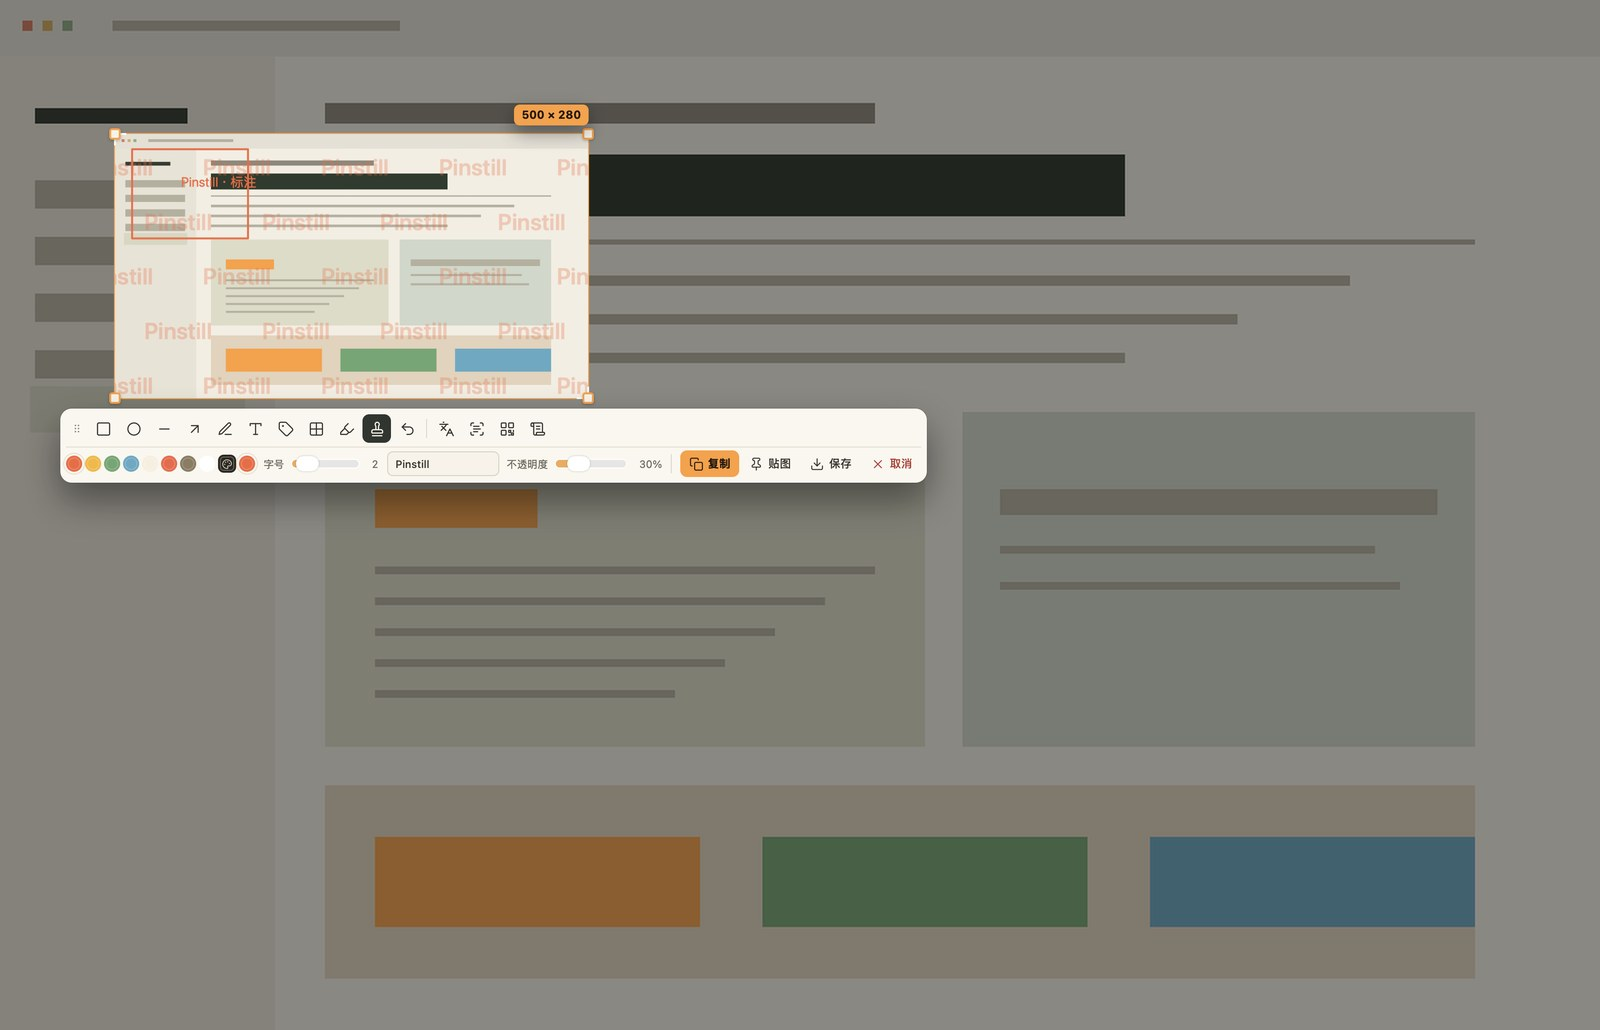
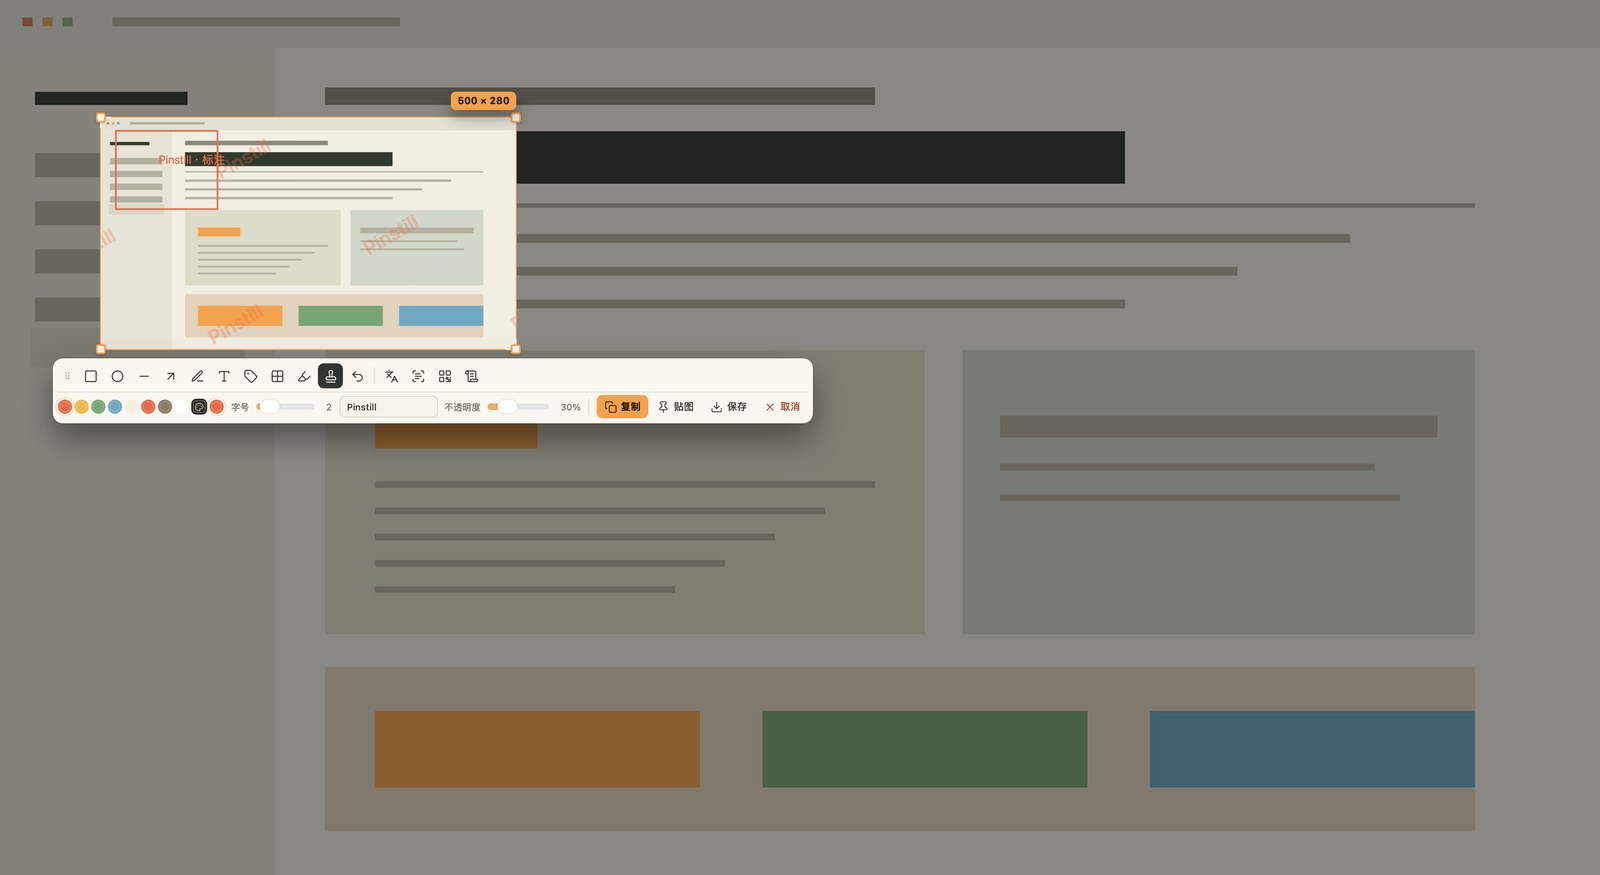
fix: draw the watermark diagonally and much sparser
Mainstream watermarks are diagonal and only mark the image, they do not
cover it. The tiled layer now rotates the text by -30 degrees and uses
generous spacing (stepX = text width + 6x font size, stepY = 7x font size
instead of 2.2x / 2.4x), so a typical capture shows a handful of marks
instead of a dense grid.

The watermark selftest still passes, the full e2e run passes, and the
README watermark screenshot was regenerated from the synthetic showcase.

Changed region(s): [[0.0312, 0.0926, 0.5938, 0.4937]]

diff --git a/frontend/src/annotate.ts b/frontend/src/annotate.ts
@@ -55,7 +55,10 @@ export interface WatermarkLayer {
   color: string;
 }
 
-/** Draws the repeated watermark text across the whole canvas. */
+/** Watermark marks are drawn diagonally, like the mainstream tools. */
+const WATERMARK_ANGLE = (-30 * Math.PI) / 180;
+
+/** Draws the sparse, diagonal tiled watermark across the whole canvas. */
 export function drawTiledWatermark(
   ctx: CanvasRenderingContext2D,
   layer: WatermarkLayer,
@@ -69,16 +72,21 @@ export function drawTiledWatermark(
   ctx.globalAlpha = Math.max(0.05, Math.min(1, layer.opacity / 100));
   ctx.fillStyle = layer.color;
   ctx.font = `600 ${fontSize}px ${DEFAULT_TEXT_FONT}`;
+  ctx.textAlign = "center";
   ctx.textBaseline = "middle";
-  ctx.textAlign = "left";
   const textWidth = Math.max(1, ctx.measureText(text).width);
-  const stepX = textWidth + fontSize * 2.2;
-  const stepY = fontSize * 2.4;
-  const startX = -stepX * 0.25;
+  // Generous spacing: a watermark marks the image without covering it.
+  const stepX = textWidth + fontSize * 6;
+  const stepY = fontSize * 7;
+  const cx = canvas.width / 2;
+  const cy = canvas.height / 2;
+  const extent = Math.hypot(canvas.width, canvas.height) / 2 + Math.max(textWidth, stepY);
+  ctx.translate(cx, cy);
+  ctx.rotate(WATERMARK_ANGLE);
   let row = 0;
-  for (let y = stepY * 0.6; y < canvas.height + stepY; y += stepY, row++) {
+  for (let y = -extent; y <= extent; y += stepY, row++) {
     const offset = row % 2 === 0 ? 0 : stepX / 2;
-    for (let x = startX + offset; x < canvas.width + stepX; x += stepX) {
+    for (let x = -extent + offset; x <= extent; x += stepX) {
       ctx.fillText(text, x, y);
     }
   }
